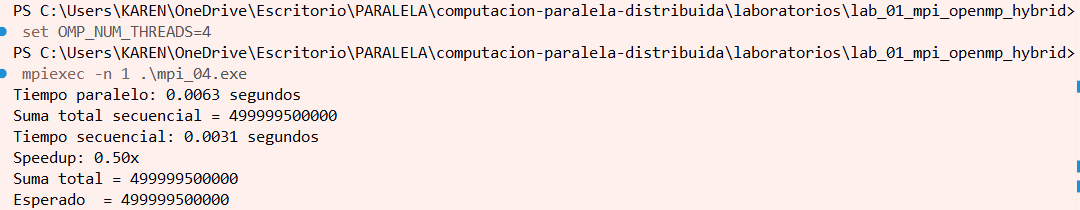
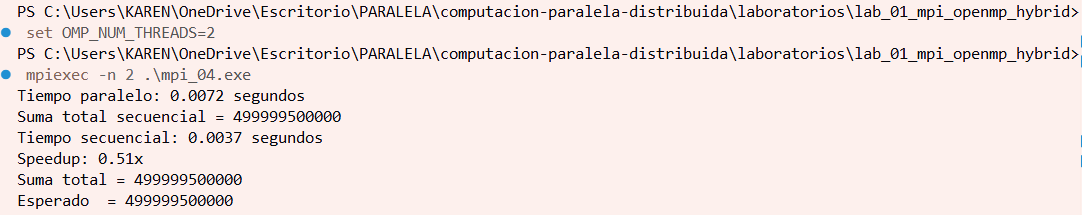
lab01: README con ejercicios MPI+OpenMP, análisis de speedup e imágenes de ambos integrantes

diff --git a/laboratorios/lab_01_mpi_openmp_hybrid/README.md b/laboratorios/lab_01_mpi_openmp_hybrid/README.md
@@ -1,0 +1,279 @@
+# LAB-01-MPI-OPENMP-HYBRID | Silvana & Yeferson
+
+> **Asignatura:** Fundamentos de Programación Concurrente y Distribuida
+
+> **Docente:** Prf. Alejandro Jaimes
+
+> **Fecha:** 06/05/2026
+
+> **Repositorio:** [computacion-paralela-distribuida](https://github.com/yeferson59/computacion-paralela-distribuida)
+
+---
+
+## Equipo
+
+|    | Colaborador | GitHub |
+|----|-------------|--------|
+| 👩🏻💻 | Silvana     | [@inana20](https://github.com/inana20) |
+| 👨🏻💻 | Yeferson    | [@yeferson59](https://github.com/yeferson59) |
+
+---
+
+## Estructura del repositorio
+
+```
+computacion-paralela-distribuida/
+│
+├── README.md
+│
+├── laboratorios/
+│   └── lab_01_mpi_openmp_hybrid/
+│       ├── README.md
+│       ├── img/
+│       │   ├── img-Silvana/
+│       │   │   ├── mpi_01_hola.png
+│       │   │   ├── mpi_01_hola_2.png
+│       │   │   ├── mpi_02_hibrido.png
+│       │   │   ├── mpi_02_hibrido_2.png
+│       │   │   ├── mpi_03_suma_hibrida.png
+│       │   │   ├── mpi_04_speedup.png
+│       │   │   ├── mpi_04_speedup_2.png
+│       │   │   ├── mpi_04_speedup_3.png
+│       │   │   └── mpi_04_speedup_4.png
+│       │   └── img-yeferson/
+│       │       ├── mpi_01_hola.png
+│       │       ├── mpi_01_hola_2.png
+│       │       ├── mpi_02_hibrido.png
+│       │       ├── mpi_02_hibrido_2.png
+│       │       ├── mpi_03_suma_hibrida.png
+│       │       ├── mpi_04_speedup.png
+│       │       ├── mpi_04_speedup_2.png
+│       │       ├── mpi_04_speedup_3.png
+│       │       └── mpi_04_speedup_4.png
+│       ├── mpi_01_hola.c
+│       ├── mpi_02_hibrido.c
+│       ├── mpi_03_suma_hibrida.c
+│       └── mpi_04_speedup.c
+```
+
+---
+
+## Ejercicio 1 — Hola Mundo MPI
+
+**Descripción:** Cada proceso MPI imprime su rank (ID) y el total de procesos activos. El proceso maestro (rank 0) imprime un mensaje adicional al final confirmando que todos los procesos saludaron.
+
+**Compilación y ejecución:**
+```bash
+mpicc mpi_01_hola.c -o mpi_01_hola.exe
+mpiexec -n 4 .\mpi_01_hola.exe
+mpiexec -n 2 .\mpi_01_hola.exe
+```
+
+### Silvana — 4 procesos:
+
+![Ejercicio 1 con 4 procesos - Silvana](img/img-Silvana/mpi_01_hola.png)
+
+### Silvana — 2 procesos:
+
+![Ejercicio 1 con 2 procesos - Silvana](img/img-Silvana/mpi_01_hola_2.png)
+
+### Yeferson — 4 procesos:
+
+![Ejercicio 1 con 4 procesos - Yeferson](img/img-yeferson/mpi_01_hola.png)
+
+### Yeferson — 2 procesos:
+
+![Ejercicio 1 con 2 procesos - Yeferson](img/img-yeferson/mpi_01_hola_2.png)
+
+**Respuestas a las preguntas de análisis:**
+
+1. **¿Por qué el orden de salida varía entre ejecuciones?**
+   El orden varía porque cada proceso corre de forma independiente y en paralelo. El sistema operativo decide en qué momento le asigna tiempo de CPU a cada uno, por esto no se garantiza de en qué orden llegan los `printf()` al de salida. Esto es una característica del paralelismo, no un error.
+
+2. **¿Qué pasaría si ejecutas con `-n 1`?**
+   Solo existiría un proceso (rank=0, size=1). El programa funciona correctamente pero sin paralelismo real: imprime una sola línea de saludo y el mensaje del maestro. No tiene sentido paralelizar con un único proceso ya que no hay trabajo distribuido.
+
+3. **¿Para qué sirve `MPI_COMM_WORLD`?**
+   Es el comunicador por defecto que agrupa a todos los procesos del programa. Funciona como un "canal de comunicación" que conecta a todos. Sí pueden existir otros comunicadores personalizados (usando `MPI_Comm_split` o `MPI_Comm_create`) para crear subgrupos de procesos que se comuniquen entre sí de forma independiente.
+
+---
+
+## Ejercicio 2 — OpenMP dentro de MPI
+
+**Descripción:** Dentro de cada proceso MPI se lanza una región paralela OpenMP con 4 hilos. Cada hilo imprime su ID junto con el rank del proceso que lo contiene, implementando el modelo de programación híbrida MPI+OpenMP. Al final, el proceso maestro calcula el total de unidades de cómputo activas.
+
+**Compilación y ejecución:**
+```bash
+mpicc -fopenmp mpi_02_hibrido.c -o mpi_02_hibrido.exe
+mpiexec -n 2 .\mpi_02_hibrido.exe
+mpiexec -n 4 .\mpi_02_hibrido.exe
+```
+
+### Silvana — 2 procesos MPI × 4 hilos:
+
+![Ejercicio 2 con 2 procesos - Silvana](img/img-Silvana/mpi_02_hibrido.png)
+
+### Silvana — 4 procesos MPI × 4 hilos:
+
+![Ejercicio 2 con 4 procesos - Silvana](img/img-Silvana/mpi_02_hibrido_2.png)
+
+### Yeferson — 2 procesos MPI × 4 hilos:
+
+![Ejercicio 2 con 2 procesos - Yeferson](img/img-yeferson/mpi_02_hibrido.png)
+
+### Yeferson — 4 procesos MPI × 4 hilos:
+
+![Ejercicio 2 con 4 procesos - Yeferson](img/img-yeferson/mpi_02_hibrido_2.png)
+
+**Respuestas a las preguntas de análisis:**
+
+1. **Con 2 procesos MPI y 4 hilos OMP, ¿cuántas unidades de cómputo hay en total?**
+   Hay **8 unidades de cómputo** en total: 2 procesos MPI × 4 hilos OpenMP = 8. Cada proceso lanza 4 hilos que trabajan en paralelo dentro de él, sumando 8 unidades activas simultáneamente.
+
+2. **¿En qué se diferencia ejecutar con `-n 4` (4 MPI, 4 hilos) vs `-n 1` (1 MPI, 16 hilos)?**
+   Con `-n 4` hay 4 procesos MPI con memoria separada que se comunican, cada uno con 4 hilos: útil en múltiples nodos físicos. Con `-n 1` hay un solo proceso con 16 hilos que comparten la misma memoria: más eficiente en una sola máquina porque evita la sobrecarga de comunicación entre procesos. Ambas configuraciones tienen 16 unidades, pero la segunda es más rápida para un solo nodo (computador).
+
+3. **¿Por qué `MPI_Init_thread` en lugar de `MPI_Init`?**
+   Porque `MPI_Init` no garantiza que el entorno MPI sea seguro cuando hay múltiples hilos. `MPI_Init_thread` con el nivel `MPI_THREAD_FUNNELED` le indica explícitamente al sistema que solo el hilo maestro (thread 0) realizará llamadas MPI, evitando condiciones de carrera en las comunicaciones.
+
+---
+
+## Ejercicio 3 — Suma Híbrida de Vector
+
+**Descripción:** El proceso maestro (rank 0) inicializa un vector de N=1,000,000 enteros donde `arr[i] = i`. Se distribuye entre los procesos con `MPI_Scatter`, cada proceso suma su porción usando OpenMP con `reduction`, y los resultados parciales se combinan con `MPI_Reduce` para obtener la suma total.
+
+**Compilación y ejecución:**
+```bash
+mpicc -fopenmp mpi_03_suma_hibrida.c -o mpi_03.exe
+mpiexec -n 4 .\mpi_03.exe
+```
+
+### Silvana — resultado:
+
+![Ejercicio 3 resultado - Silvana](img/img-Silvana/mpi_03_suma_hibrida.png)
+
+### Yeferson — resultado:
+
+![Ejercicio 3 resultado - Yeferson](img/img-yeferson/mpi_03_suma_hibrida.png)
+
+**Verificación:**
+```
+Suma total = 499999500000
+Esperado   = 499999500000  ✓
+```
+
+**Respuestas a las preguntas de análisis:**
+
+1. **¿Qué hace exactamente `MPI_Scatter`?**
+   `MPI_Scatter` toma el arreglo completo que tiene el proceso 0, lo divide en bloques iguales de tamaño `chunk = N/size` y envía un bloque a cada proceso, incluyendo al propio proceso 0. Es una operación colectiva de distribución uno-a-todos: solo el proceso 0 tiene los datos originales y los reparte automáticamente entre todos.
+
+2. **¿Por qué `reduction(+:suma_local)` y no una variable compartida directamente?**
+   Porque si varios hilos escriben en la misma variable al mismo tiempo se produce una **condición de carrera**: dos hilos leen el valor, lo modifican y escriben, pero uno sobreescribe el trabajo del otro, dando un resultado incorrecto. La cláusula `reduction` crea una copia `suma_local` para cada hilo, cada uno acumula en la suya, y al final OpenMP las suma de forma segura en la variable original.
+
+3. **¿Qué pasaría si olvidaras `MPI_Reduce` e imprimieras `suma_local` en rank 0?**
+   El rank 0 solo imprimiría **su propia suma parcial**, es decir, la suma de los primeros 250,000 elementos (1/4 del total). El resultado sería `31249875000` en lugar de `499999500000`. Las sumas de los demás procesos nunca llegarían al rank 0 y se perderían.
+
+---
+
+## Ejercicio 4 (Reto) — Speedup Híbrido
+
+**Descripción:** Se añade medición de tiempos con `MPI_Wtime()` al Ejercicio 3 para comparar el rendimiento entre la versión secuencial, MPI puro, OpenMP puro y la combinación híbrida MPI+OpenMP.
+
+**Compilación:**
+```bash
+mpicc -fopenmp mpi_04_speedup.c -o mpi_04.exe
+```
+
+**Tabla de resultados:**
+
+| Configuración | Procesos MPI | Hilos OMP | Speedup Silvana | Speedup Yeferson |
+|---------------|:------------:|:---------:|:---------------:|:----------------:|
+| Solo MPI      | 4            | 1         | 0.27×           | 0.15×            |
+| Solo OMP      | 1            | 4         | 0.50×           | 0.21×            |
+| MPI + OMP     | 2            | 2         | 0.51×           | 0.11×            |
+| MPI + OMP     | 4            | 2         | 0.20×           | 0.08×            |
+
+**Discusion de resultados**
+En nuestros resultados, la configuración más eficiente fue diferente en cada computador. En caso de Silvana, la mejor fue MPI + OMP (2x2) con un speedup de 0.51×, mientras que en el computador de Yeferson la mejor fue Solo OMP con 0.21×. Creemos que esto pasó porque OpenMP aprovecha mejor la memoria compartida en una sola máquina y evita parte de la sobrecarga que introduce MPI al comunicar procesos. También vimos que usar demasiados procesos o hilos no siempre mejora el rendimiento, ya que aumenta la sincronización y el tiempo de comunicación.
+
+
+**Comandos para cada configuración:**
+```bash
+# Secuencial
+set OMP_NUM_THREADS=1
+mpiexec -n 1 .\mpi_04.exe
+
+# Solo MPI (4 procesos, 1 hilo OMP)
+set OMP_NUM_THREADS=1
+mpiexec -n 4 .\mpi_04.exe
+
+# Solo OMP (1 proceso, 4 hilos)
+set OMP_NUM_THREADS=4
+mpiexec -n 1 .\mpi_04.exe
+
+# Híbrido 2x2
+set OMP_NUM_THREADS=2
+mpiexec -n 2 .\mpi_04.exe
+
+# Híbrido 4x2
+set OMP_NUM_THREADS=2
+mpiexec -n 4 .\mpi_04.exe
+```
+
+### Silvana
+**Solo MPI (4 procesos, 1 hilo) — Speedup: 0.27×:**
+
+![Speedup solo MPI - Silvana](img/img-Silvana/mpi_04_speedup_2.png)
+
+**Solo OMP (1 proceso, 4 hilos) — Speedup: 0.50×:**
+
+![Speedup solo OMP - Silvana](img/img-Silvana/mpi_04_speedup_3.png)
+
+**Híbrido 2×2 — Speedup: 0.51×:**
+
+![Speedup híbrido 2x2 - Silvana](img/img-Silvana/mpi_04_speedup_4.png)
+
+**Híbrido 4×2 — Speedup: 0.20×:**
+
+![Speedup híbrido 4x2 - Silvana](img/img-Silvana/mpi_04_speedup.png)
+
+### Yeferson
+
+**Solo MPI (4 procesos, 1 hilo) — Speedup: 0.15×:**
+
+![Speedup solo MPI - Yeferson](img/img-yeferson/mpi_04_speedup.png)
+
+**Solo OMP (1 proceso, 4 hilos) — Speedup: 0.21×:**
+
+![Speedup solo OMP - Yeferson](img/img-yeferson/mpi_04_speedup_2.png)
+
+**Híbrido 2×2 — Speedup: 0.11×:**
+
+![Speedup híbrido 2x2 - Yeferson](img/img-yeferson/mpi_04_speedup_3.png)
+
+**Híbrido 4×2 — Speedup: 0.08×:**
+
+![Speedup híbrido 4x2 - Yeferson](img/img-yeferson/mpi_04_speedup_4.png)
+
+**Respuestas a las preguntas de análisis:**
+
+1. **¿Coincide el speedup con lo que predice la Ley de Amdahl?**
+   No completamente. La Ley de Amdahl dice que mientras mayor sea la parte paralelizable del programa, mayor debería ser el speedup. Sin embargo, en nuestros resultados el speedup fue menor al esperado porque no todo el tiempo se dedica al cálculo paralelo. También existe tiempo gastado en crear procesos e hilos, sincronizarlos y comunicar datos entre ellos, lo que reduce la ganancia real de rendimiento.
+
+2. **¿Por qué más procesos/hilos no siempre dan mayor speedup?**
+   Porque al aumentar procesos o hilos también aumentan los costos del sistema, ya que los procesos MPI necesitan comunicarse constantemente y los hilos OpenMP deben sincronizarse para evitar errores. Además, todos compiten por recursos como CPU, memoria y caché. Si el número de procesos o hilos es muy alto para el hardware disponible, la sobrecarga puede ser mayor que el beneficio del paralelismo, haciendo que el programa sea más lento.
+
+3. **¿Qué overhead introduce MPI que no existe en OpenMP puro?**
+   MPI introduce overhead de comunicación entre procesos, ya que cada proceso trabaja con memoria separada y necesita enviar y recibir datos con mensajes. Operaciones como MPI_Scatter y MPI_Reduce agregan tiempo extra de comunicación y sincronización. En cambio, OpenMP trabaja con hilos dentro del mismo proceso y todos comparten memoria, por lo que el acceso a los datos es más rápido y el costo de comunicación es mucho menor.
+
+---
+
+## Conclusiones
+
+1. Durante el desarrollo del laboratorio logramos comprender cómo funcionan los modelos de programación paralela MPI y OpenMP, de forma individual y combinados en un modelo híbrido. Pudimos observar cómo MPI distribuye el trabajo entre procesos independientes y cómo OpenMP aprovecha el paralelismo mediante hilos dentro de un mismo proceso. Esto nos permitió entender mejor la diferencia entre memoria distribuida y memoria compartida, así como las ventajas y limitaciones que tiene cada enfoque.
+
+2. Los resultados obtenidos demostraron que el paralelismo no siempre garantiza una mejora inmediata en el rendimiento. Aunque esperábamos speedups mayores, observamos que el overhead de comunicación, sincronización y administración de procesos puede afectar el tiempo de ejecución, especialmente en problemas pequeños o en computadores con recursos limitados. También comprobamos que aumentar la cantidad de procesos e hilos no siempre mejora el desempeño y que es importante encontrar una configuración adecuada según el hardware disponible.
+
+3. Además del aprendizaje técnico, el laboratorio fortaleció nuestro trabajo colaborativo y el uso de herramientas de desarrollo como Git y GitHub. Aprendimos a organizar un repositorio, documentar correctamente los ejercicios, manejar capturas de resultados y trabajar de forma sincronizada mediante commits y actualizaciones del repositorio. Esto nos ayudó a desarrollar buenas prácticas para proyectos colaborativos y para la documentación de experimentos en programación concurrente y distribuida.
+---
+
